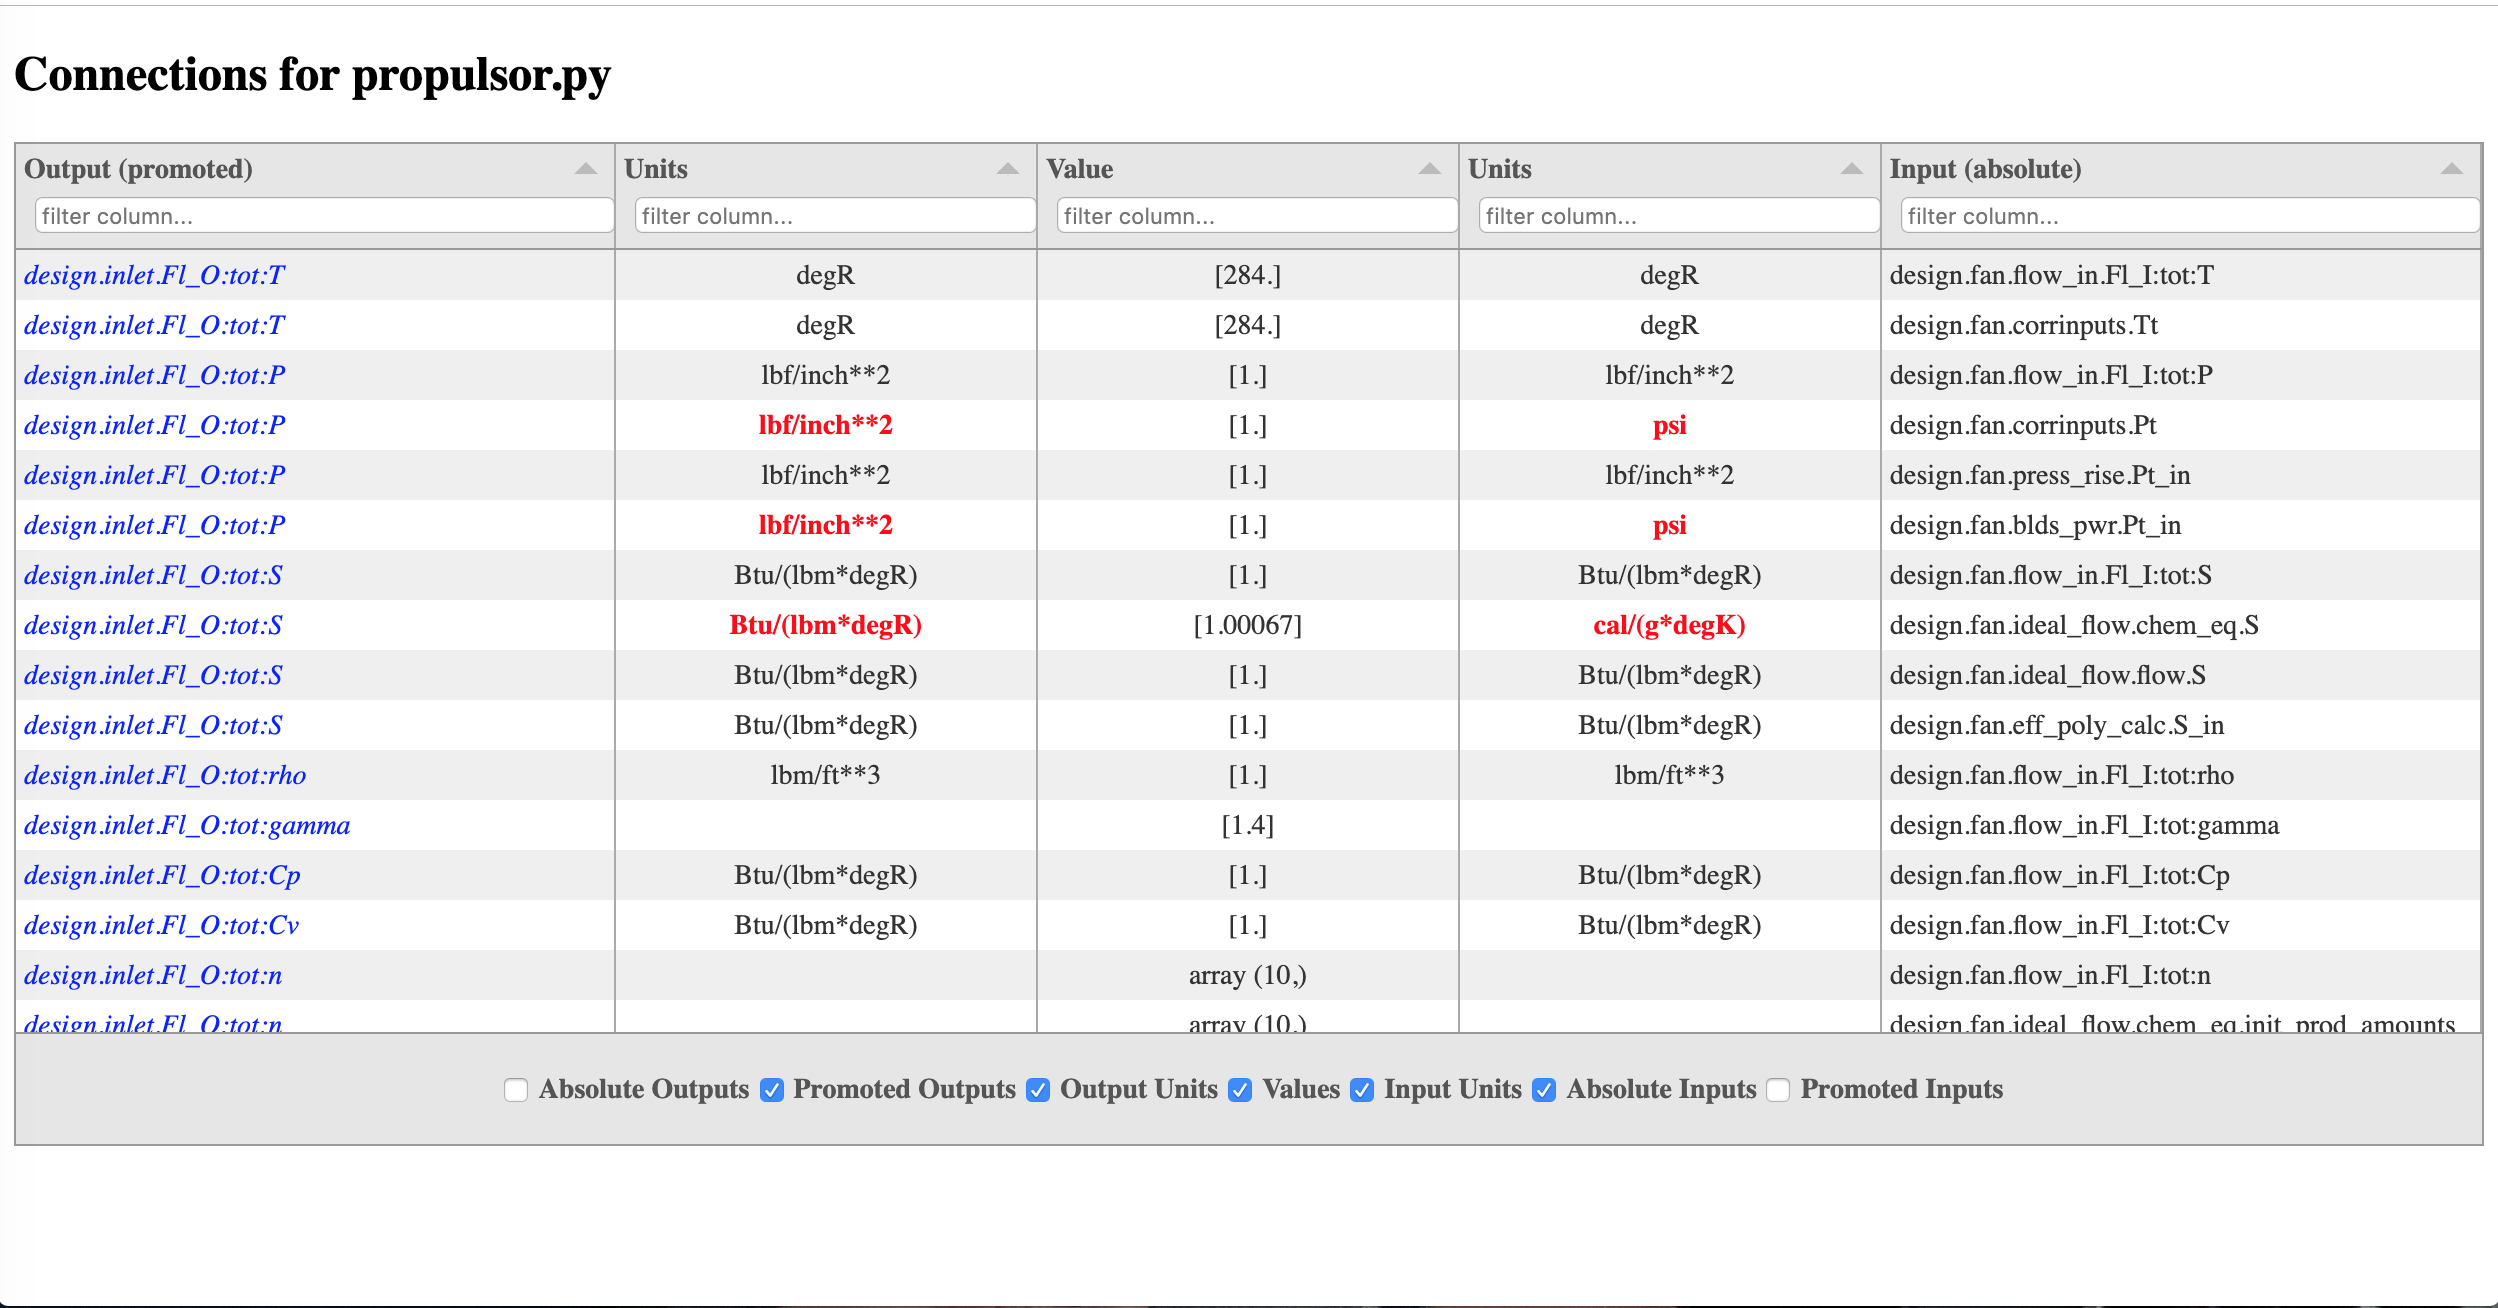
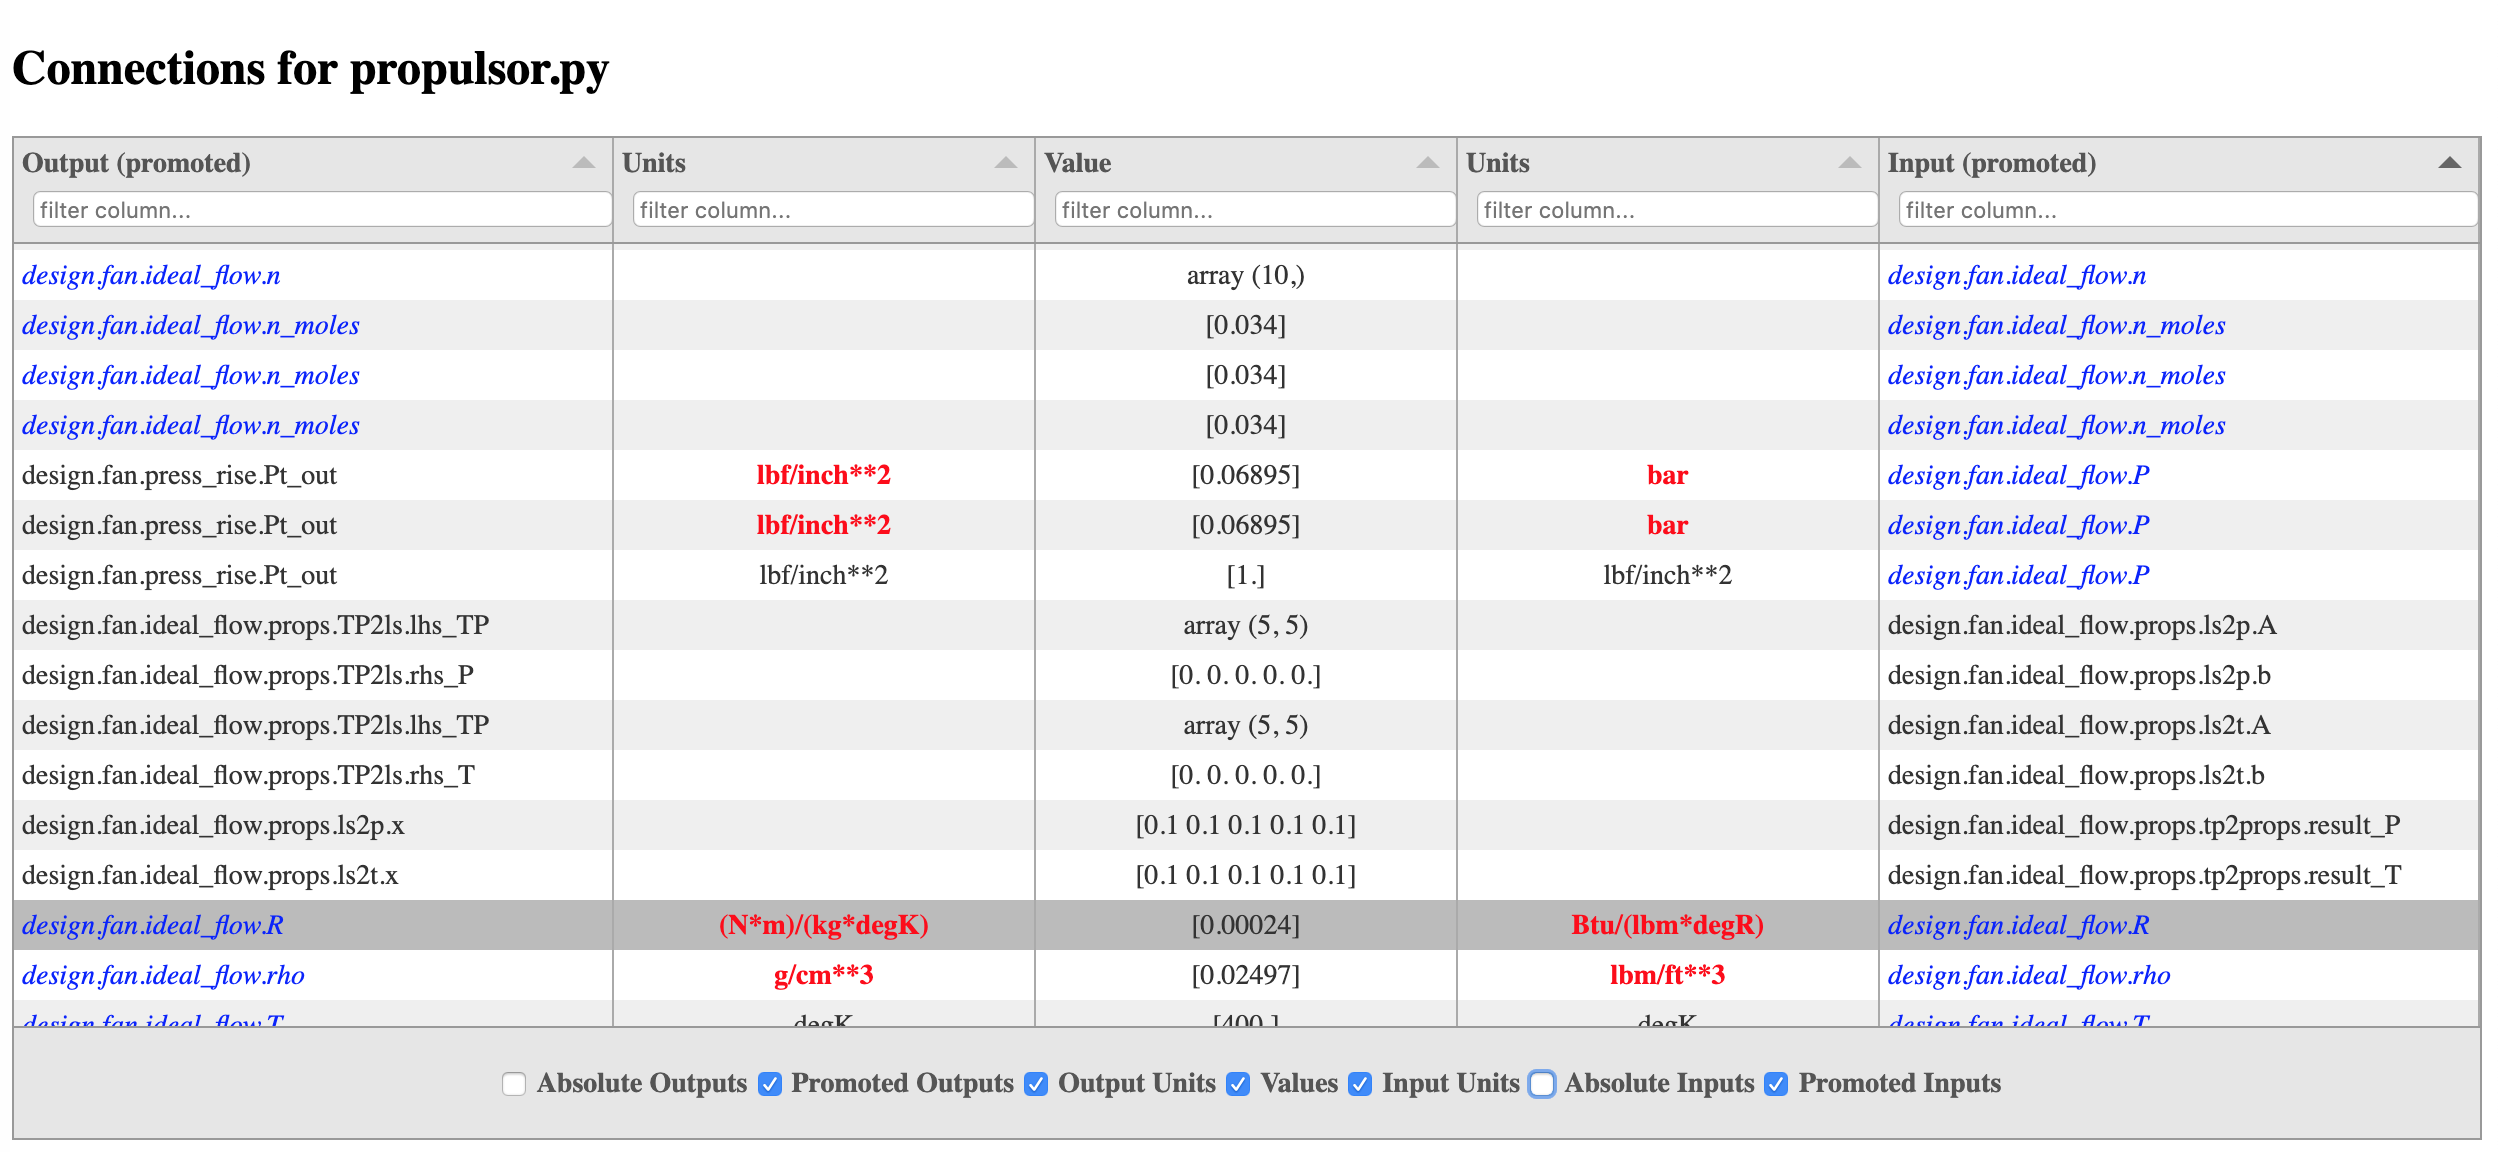
updating docs and cleanup

diff --git a/openmdao/visualization/connection_viewer/connect_table.html b/openmdao/visualization/connection_viewer/connect_table.html
@@ -14,7 +14,6 @@
 
     .promoted {
         color: blue;
-        font-style: italic;
     }
 
     .middle {
@@ -50,7 +49,6 @@ var table =
         height: 500,
         data:tabledata, //assign data to table
         layout:"fitColumns", //"fitDataFill",
-        // footerElement:"<span><button onclick='src_toggle(this)'>Use Absolute Output Names</button><button onclick='tgt_toggle(this)'>Use Absolute Input Names</button></span>",
         footerElement:"<p class='middle'>" +
                             "<input type='checkbox' onclick='src_abs_toggle(this)'>Absolute Outputs</input>" +
                             "<input type='checkbox' checked='true' onclick='src_prom_toggle(this)'>Promoted Outputs</input>" +

diff --git a/openmdao/devtools/debug.py b/openmdao/devtools/debug.py
@@ -309,27 +309,21 @@ def config_summary(problem, stream=sys.stdout):
         proc_names = problem.comm.gather((sysnames, grpnames, ln_solvers, nl_solvers), root=0)
         grpnames = set()
         sysnames = set()
-        ln_solvers = Counter()
-        nl_solvers = Counter()
-        ln_seen = set()
-        nl_seen = set()
+        ln_solvers = set()
+        nl_solvers = set()
         if proc_names is not None:
-            for rank in range(problem.comm.size):
-                systems, grps, lnsols, nlsols = proc_names[rank]
+            for systems, grps, lnsols, nlsols in proc_names:
                 sysnames.update(systems)
                 grpnames.update(grps)
-                lnlst = [(path, slv) for path, slv in lnsols if path not in ln_seen]
-                ln_seen.update([path for path, _ in lnsols])
-                ln_solvers.update([slv for _, slv in lnlst])
-
-                nllst = [(path, slv) for path, slv in nlsols if path not in nl_seen]
-                nl_seen.update([path for path, _ in nlsols])
-                nl_solvers.update([slv for _, slv in nllst])
+                ln_solvers.update(lnsols)
                 nl_solvers.update(nlsols)
     else:
         global_max_depth = max_depth
-        ln_solvers = Counter([slv for _, slv in ln_solvers])
-        nl_solvers = Counter([slv for _, slv in nl_solvers])
+        ln_solvers = set(ln_solvers)
+        nl_solvers = set(nl_solvers)
+
+    ln_solvers = Counter([sname for _, sname in ln_solvers])
+    nl_solvers = Counter([sname for _, sname in nl_solvers])
 
     # this gives us a printer that only prints on rank 0
     printer = _get_printer(problem.comm, stream)
@@ -409,8 +403,22 @@ def config_summary(problem, stream=sys.stdout):
 
     printer()
     printer("Driver type: %s" % problem.driver.__class__.__name__)
-    printer("Linear Solvers: %s" % ln_solvers.most_common())
-    printer("Nonlinear Solvers: %s" % nl_solvers.most_common())
+    linstr = []
+    for slvname, num in ln_solvers.most_common():
+        if num > 1:
+            linstr.append('{} x {}'.format(slvname, num))
+        else:
+            linstr.append(slvname)
+    printer("Linear Solvers: {}".format(', '.join(linstr)))
+
+
+    nlstr = []
+    for slvname, num in nl_solvers.most_common():
+        if num > 1:
+            nlstr.append('{} x {}'.format(slvname, num))
+        else:
+            nlstr.append(slvname)
+    printer("Nonlinear Solvers: {}".format(', '.join(nlstr)))
 
 
 @contextmanager

diff --git a/openmdao/visualization/connection_viewer/viewconns.py b/openmdao/visualization/connection_viewer/viewconns.py
@@ -29,7 +29,7 @@ def _val2str(val):
 
 
 def view_connections(root, outfile='connections.html', show_browser=True,
-                     src_filter='', tgt_filter='', precision=6, title=None):
+                     precision=6, title=None):
     """
     Generate a self-contained html file containing a detailed connection viewer.
 
@@ -46,12 +46,6 @@ def view_connections(root, outfile='connections.html', show_browser=True,
     show_browser : bool, optional
         If True, pop up a browser to view the generated html file.
         Defaults to True.
-
-    src_filter : str, optional
-        If defined, use this as the initial value for the source system filter.
-
-    tgt_filter : str, optional
-        If defined, use this as the initial value for the target system filter.
 
     precision : int, optional
         Sets the precision for displaying array values.
@@ -167,8 +161,6 @@ def view_connections(root, outfile='connections.html', show_browser=True,
     data = {
         'title': title,
         'table': table,
-        'src_filter': src_filter,
-        'tgt_filter': tgt_filter,
     }
 
     viewer = 'connect_table.html'

diff --git a/setup.py b/setup.py
@@ -32,7 +32,7 @@ optional_dependencies['all'] = sorted([
     dependency
     for dependencies in optional_dependencies.values()
     for dependency in dependencies
-])
+] + ['colorama'])
 
 
 setup(

diff --git a/openmdao/docs/other/om_command.rst b/openmdao/docs/other/om_command.rst
@@ -89,12 +89,23 @@ openmdao view_connections
 #########################
 
 The :code:`openmdao view_connections` command generates a table of connection information for all input and
-output variables in the model.  Units can be compared for each connection, and unconnected inputs
-and outputs can be easily identified.  The table can be sorted by any column by clicking on the
+output variables in the model.  It's primary purpose is to help debug a model by making the following
+things easier:
+
+
+    - Identifying unconnected inputs
+    - Highlighting unit conversions or missing units
+    - Identifying missing or unwanted implicit connections
+
+
+The table can be sorted by any column by clicking on the
 column header, and a column can be filtered by typing text into the 'filter column' field found
-at the top of each column.  When units differ between an output and an input, they are highlighted in
-red.  Below is an example of a connection viewer for a pycycle propulsor
-model obtained using the command:
+at the top of each column.  Also, any column can be shown or hidden using the toggle buttons at
+the bottom of the table.  When input and output units differ, they are highlighted in
+red.  In the promoted input and output columns, variables that are promoted at some level in
+the model are shown in blue, while variables that are never promoted are shown in black.
+
+Below is an example of a connection viewer for a pycycle propulsor model obtained using the command:
 
 .. code-block:: none
 
@@ -109,11 +120,21 @@ model obtained using the command:
 
 
 By default the promoted names columns of both inputs and outputs are shown, but in the example
-above, the absolute input names are shown and the promoted input names are hidden.  The user can
-choose to show or hide any of the table columns by clicking on the toggle buttons at the bottom
-of the table.
+above, the absolute input names are shown and the promoted input names are hidden.
 
-Unconnected inputs can easily be identified by filtering either
+Unconnected inputs can easily be identified by typing 'NO CONNECTION' or 'NO ', into
+the filter field of either the absolute or promoted output column.  Unconnected outputs can
+be shown similarly by typing 'NO CONNECTION' or 'NO ' into the filter field of either the absolute
+or promoted input column.
+
+When showing promoted output and promoted input columns, if the promoted output name equals the
+promoted input name, that means the the connection is an implicit connection.  Otherwise the
+connection is explicit, meaning somewhere in the model there is an explicit call to `connect`
+that producted the connection.
+
+In OpenMDAO, multiple inputs can be promoted to the same name, and by sorting the promoted inputs
+column, all such inputs will be grouped together.  This can make it much easier to spot either
+missing or unwanted implicit connections.
 
 
 .. _om-command-tree:
@@ -122,10 +143,13 @@ openmdao tree
 #############
 
 The :code:`openmdao tree` command prints an indented list of all systems in the model tree.  Each system's
-type and name are shown, along with linear and nonlinear solvers if they differ from the defaults,
-which are LinearRunOnce and NonlinearRunOnce respectively.  If the `-c` option is used, the tree will print
-in color if the terminal supports it and the *colorama* package is installed.  The tree Command
-also allows specific attributes and/or vector variables to be printed out along with their
+type and name are shown, along with size of their inputs and outputs, and their linear and nonlinear solvers if
+they differ from the defaults, which are LinearRunOnce and NonlinearRunOnce respectively.
+If the `-c` option is used, the tree will print in color if the terminal supports it and
+the *colorama* package is installed. If colors are used, implicit and explicit components will be
+displayed using different colors.
+
+The tree command also allows specific attributes and/or vector variables to be printed out along with their
 corresponding system in the tree.
 
 Here's an example of the tree output for a simple circuit model:
@@ -144,6 +168,7 @@ The :code:`openmdao summary` command prints a high level summary of the model.  
 .. embed-shell-cmd::
     :cmd: openmdao summary circuit.py
     :dir: ../test_suite/scripts
+
 
 .. _om-command-cite:
 

diff --git a/openmdao/docs/features/model_visualization/view_connections.rst b/openmdao/docs/features/model_visualization/view_connections.rst
@@ -8,7 +8,8 @@ View Connections from Command Line
 ##################################
 
 The :code:`openmdao view_connections` command generates a table of connection information for all input and
-output variables in the model.  This is documented on :ref:`openmdao view_connections <om-command-view_connections>`.
+output variables in the model.  For more in-depth documentation, see
+:ref:`openmdao view_connections <om-command-view_connections>`.
 
 View Connections from Script
 ############################
@@ -34,9 +35,4 @@ browser. The page will look like this.
    An example of a connection viewer.
 
 
-Each column in the table can be sorted by clicking on the column header, and filtered by typing
-text into the 'filter column' field.  The column will be filtered by doing a case insenstive
-substring match of the text in the field.  By default, the promoted input and output name columns
-are shown and the absolute name columns are hidden, but toggle buttons at the bottom of the
-table allow any column to be shown or hidden.
 
